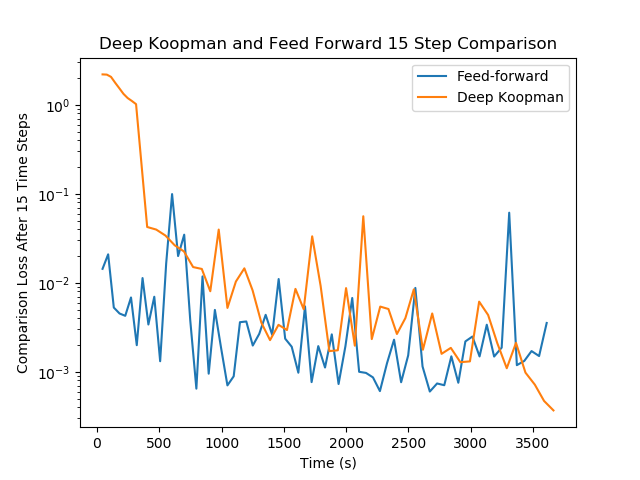
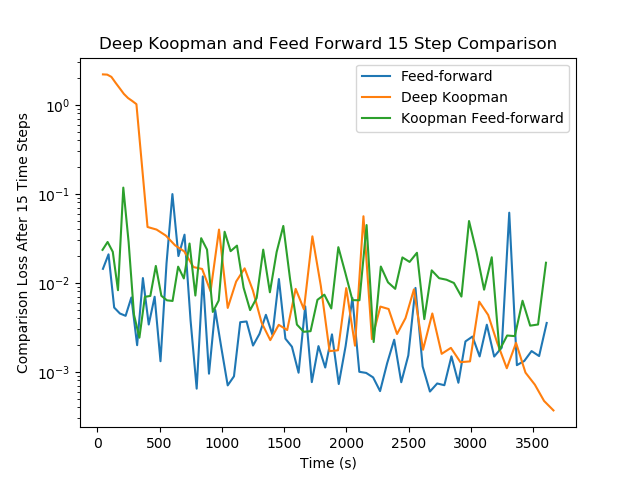
Changed plotter.py and plots to include data from Koopman-like feedforward network (network with layers 80 80 2 2 80 80 2).

diff --git a/plotter.py b/plotter.py
@@ -17,6 +17,11 @@ f_DeepKoopman = open('./exp2_best/Pendulum_2021_07_11_12_50_17_922906_error.csv'
 dk_lines = f_DeepKoopman.readlines()
 len_dk = len(dk_lines) - 1
 
+# network structure: 80 80 2 2 80 80 2
+f_Koopman_no_aux = open('./feedforward_results/Pendulum_Koopman_no_aux_2021_07_11_13_33_43_884109_error.csv','r')
+K_na_lines = f_Koopman_no_aux.readlines()
+len_K_na = len(K_na_lines) - 1
+
 
 ## Store Data
 
@@ -62,10 +67,32 @@ for i in range(0,len_dk):
 	dk['comp_loss_5'][i] 	= float(line[19]);
 	dk['comp_loss_15'][i] 	= float(line[21]);
 
+# Koopman without Auxiliary network data
+K_na = {}
+K_na['epochs'] 			= np.zeros(len_K_na)
+K_na['times'] 			= np.zeros(len_K_na)
+K_na['train_loss'] 		= np.zeros(len_K_na)
+K_na['val_loss'] 		= np.zeros(len_K_na)
+K_na['comp_loss'] 		= np.zeros(len_K_na)
+K_na['comp_loss_5'] 	= np.zeros(len_K_na)
+K_na['comp_loss_15']	= np.zeros(len_K_na)
+
+for i in range(0,len_K_na):
+	line = K_na_lines[i + 1].strip('\n').split(', ')
+
+	K_na['epochs'][i] 		= int(line[0]);
+	K_na['times'][i] 		= float(line[1]);
+	K_na['train_loss'][i] 	= float(line[2]);
+	K_na['val_loss'][i] 	= float(line[3]);
+	K_na['comp_loss'][i] 	= float(line[4]);
+	K_na['comp_loss_5'][i] 	= float(line[5]);
+	K_na['comp_loss_15'][i] = float(line[6]);
+
 ## Plot Results
 # plot comparison loss vs time
 pyplot.plot(ff['times'], ff['comp_loss'], label = 'Feed-forward')
 pyplot.plot(dk['times'], dk['comp_loss'], label = 'Deep Koopman')
+pyplot.plot(K_na['times'], K_na['comp_loss'], label = 'Koopman Feed-forward')
 pyplot.legend()
 
 pyplot.yscale('log')
@@ -78,6 +105,7 @@ pyplot.show()
 # plot comparison loss after 5 steps vs time
 pyplot.plot(ff['times'], ff['comp_loss_5'], label = 'Feed-forward')
 pyplot.plot(dk['times'], dk['comp_loss_5'], label = 'Deep Koopman')
+pyplot.plot(K_na['times'], K_na['comp_loss_5'], label = 'Koopman Feed-forward')
 pyplot.legend()
 
 pyplot.yscale('log')
@@ -90,6 +118,7 @@ pyplot.show()
 # plot comparison loss after 15 steps vs time
 pyplot.plot(ff['times'], ff['comp_loss_15'], label = 'Feed-forward')
 pyplot.plot(dk['times'], dk['comp_loss_15'], label = 'Deep Koopman')
+pyplot.plot(K_na['times'], K_na['comp_loss_15'], label = 'Koopman Feed-forward')
 pyplot.legend()
 
 pyplot.yscale('log')
